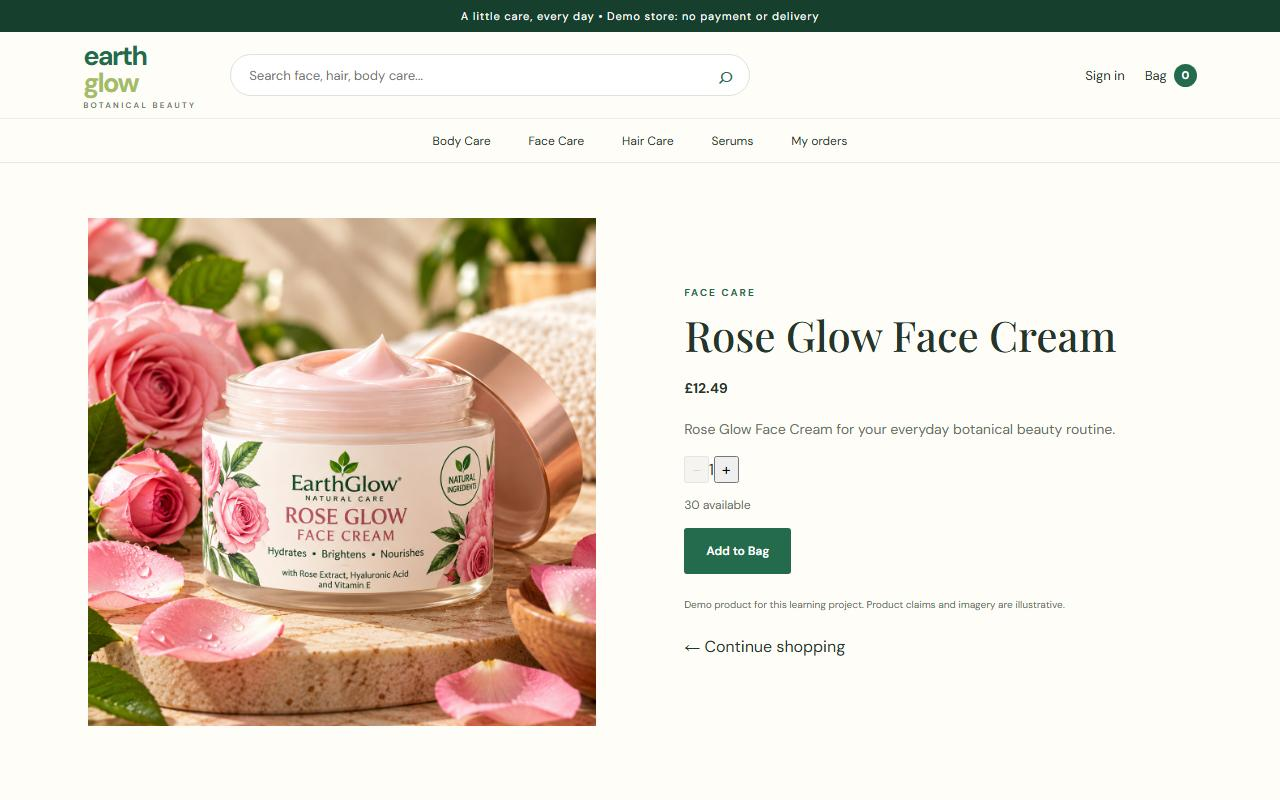
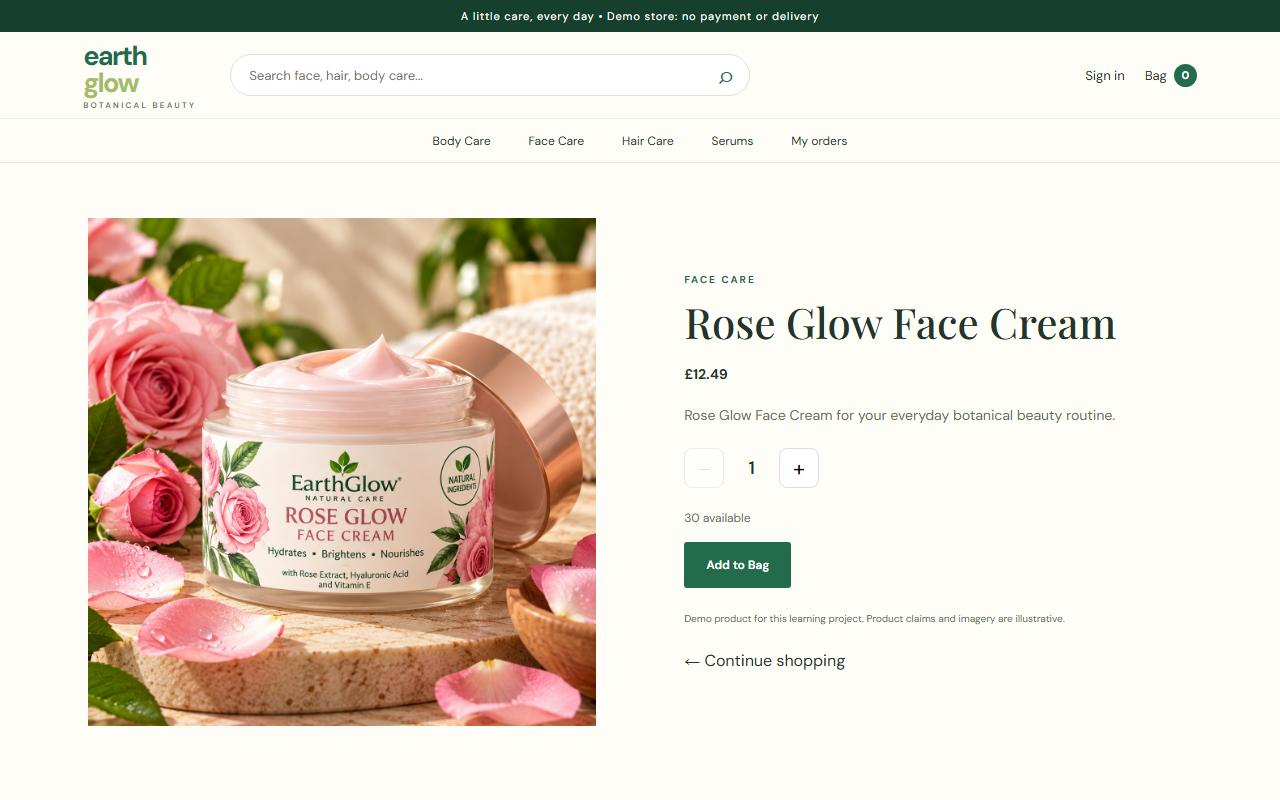
Fix quantity selector on desktop and rename lip scrub product

Changed region(s): [[0.5312, 0.3438, 0.875, 0.5938], [0.5312, 0.625, 0.8438, 0.8438]]

diff --git a/frontend/src/styles.css b/frontend/src/styles.css
@@ -1105,6 +1105,31 @@
 }
 
 /* Mobile */
+/* PRODUCT QUANTITY */
+
+.quantity-selector {
+  display: flex;
+  align-items: center;
+  gap: 15px;
+  margin: 20px 0;
+}
+
+.quantity-selector button {
+  width: 40px;
+  height: 40px;
+  border: 1px solid #ddd;
+  border-radius: 8px;
+  background: white;
+  font-size: 22px;
+}
+
+.quantity-selector span {
+  min-width: 25px;
+  text-align: center;
+  font-size: 18px;
+  font-weight: 600;
+}
+
 @media (max-width: 640px) {
   html,
   body,
@@ -1401,29 +1426,6 @@
 
   .detail-copy > .button {
     width: 100%;
-  }
-
-  .quantity-selector {
-    display: flex;
-    align-items: center;
-    gap: 15px;
-    margin: 20px 0;
-  }
-
-  .quantity-selector button {
-    width: 40px;
-    height: 40px;
-    border: 1px solid #ddd;
-    border-radius: 8px;
-    background: white;
-    font-size: 22px;
-  }
-
-  .quantity-selector span {
-    min-width: 25px;
-    text-align: center;
-    font-size: 18px;
-    font-weight: 600;
   }
 
   /* CART AND CHECKOUT */

diff --git a/backend/src/addProducts.js b/backend/src/addProducts.js
@@ -48,7 +48,7 @@ const products = [
 
   // LIP CARE
   ['Nourishing Lip Balm', 'Face Care', 5.99, 40, 'nourishing-lip-balm.png'],
-  ['Strawberry Lip Balm', 'Face Care', 5.99, 40, 'strawberry-lip-balm.png'],
+  ['Strawberry Lip Scrub', 'Face Care', 5.99, 40, 'strawberry-lip-balm.png'],
 
   // FACE OIL
   ['Argan Radiant Face Oil', 'Face Care', 13.99, 30, 'argan-radiant-face-oil.png']
